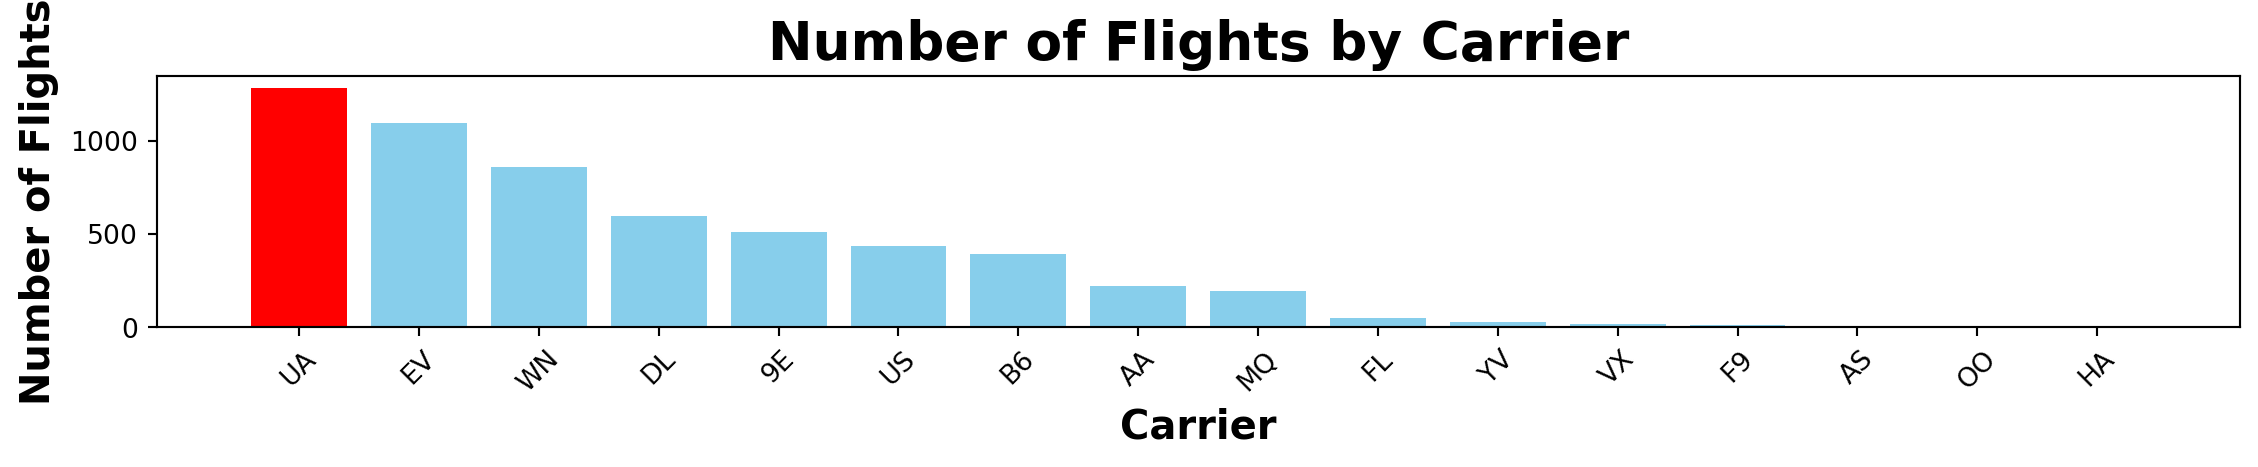
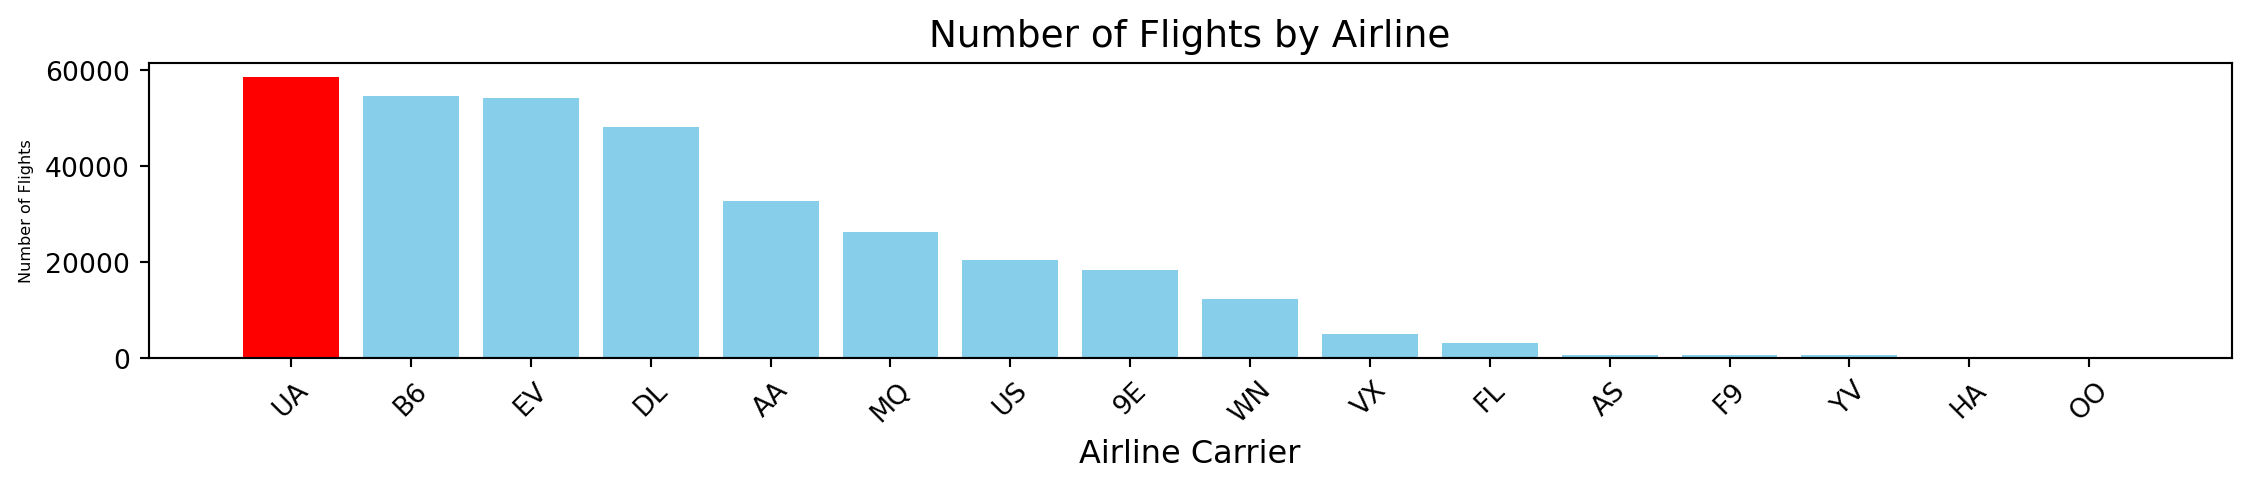
FINAL

Changed region(s): [[0.0, 0.0, 0.9956, 0.8694], [0.4667, 0.8694, 0.5911, 0.9593]]

diff --git a/flights_planes.html b/flights_planes.html
@@ -10,7 +10,7 @@
   <meta name="generator" content="quarto-1.6.42">
 
   <meta name="author" content="Team F5 : 정의주, 한지수, 신태선">
-  <title>‘nycflights13’ 보고서</title>
+  <title>UA 항공의 제조사별 출발 지연 분석</title>
   <meta name="apple-mobile-web-app-capable" content="yes">
   <meta name="apple-mobile-web-app-status-bar-style" content="black-translucent">
   <meta name="viewport" content="width=device-width, initial-scale=1.0, maximum-scale=1.0, user-scalable=no, minimal-ui">
@@ -196,8 +196,8 @@
     <div class="slides">
 
 <section id="title-slide" data-background-image="images/ua_dep.png" data-background-opacity="0.5" data-background-size="cover" data-font-size="48px" class="quarto-title-block center">
-  <h1 class="title">‘nycflights13’ 보고서</h1>
-  <p class="subtitle">UA 항공의 제조사별 출발 지연 분석</p>
+  <h1 class="title">UA 항공의 제조사별 출발 지연 분석</h1>
+  <p class="subtitle">‘nycflights13’ 보고서</p>
 
 <div class="quarto-title-authors">
 <div class="quarto-title-author">
@@ -266,7 +266,7 @@ Team F5 : 정의주, 한지수, 신태선
 <section id="데이터-정보" class="slide level2">
 <h2>2.1 데이터 정보</h2>
 <div class="column" style="margin-top:80px;">
-<div id="9336228c" class="cell" data-execution_count="2">
+<div id="2a2a5ead" class="cell" data-execution_count="2">
 <div class="sourceCode cell-code" id="cb1"><pre class="sourceCode numberSource python number-lines code-with-copy"><code class="sourceCode python"><span id="cb1-1"><a href=""></a>flights.info()</span></code><button title="Copy to Clipboard" class="code-copy-button"><i class="bi"></i></button></pre></div>
 <div class="cell-output cell-output-stdout">
 <pre><code>&lt;class 'pandas.core.frame.DataFrame'&gt;
@@ -309,7 +309,7 @@ memory usage: 48.8+ MB</code></pre>
 <section id="데이터-정보-1" class="slide level2">
 <h2>2.1 데이터 정보</h2>
 <div class="column" style="margin-top:80px;">
-<div id="c39c142a" class="cell" data-execution_count="3">
+<div id="e00fe4e5" class="cell" data-execution_count="3">
 <div class="sourceCode cell-code" id="cb3"><pre class="sourceCode numberSource python number-lines code-with-copy"><code class="sourceCode python"><span id="cb3-1"><a href=""></a>planes.info()</span></code><button title="Copy to Clipboard" class="code-copy-button"><i class="bi"></i></button></pre></div>
 <div class="cell-output cell-output-stdout">
 <pre><code>&lt;class 'pandas.core.frame.DataFrame'&gt;
@@ -342,20 +342,20 @@ memory usage: 233.7+ KB</code></pre>
 <ul>
 <li>두 데이터를 tailnum 기준으로 병합</li>
 </ul>
-<div id="7cf6ba7d" class="cell" data-execution_count="4">
+<div id="e176dd75" class="cell" data-execution_count="4">
 <div class="sourceCode cell-code" id="cb5"><pre class="sourceCode numberSource python number-lines code-with-copy"><code class="sourceCode python"><span id="cb5-1"><a href=""></a><span class="co"># tailnum을 key로 merge 하기 </span></span>
 <span id="cb5-2"><a href=""></a>df <span class="op">=</span> pd.merge(flights, planes, on <span class="op">=</span> <span class="st">'tailnum'</span>, how<span class="op">=</span><span class="st">'left'</span>)</span></code><button title="Copy to Clipboard" class="code-copy-button"><i class="bi"></i></button></pre></div>
 </div>
-<div id="003022bd" class="cell" data-execution_count="5">
+<div id="fd10c569" class="cell" data-execution_count="5">
 <div class="cell-output cell-output-stdout">
 <pre><code>병합된 데이터 : 336776</code></pre>
 </div>
 </div>
 <ul>
-<li>병합된 데이터의 주요 데이터</li>
+<li>병합된 데이터 셋의 주요 데이터</li>
 </ul>
-<div id="714ee9bf" class="cell" data-execution_count="6">
-<div class="cell-output cell-output-display" data-execution_count="84">
+<div id="f19ff847" class="cell" data-execution_count="6">
+<div class="cell-output cell-output-display" data-execution_count="32">
 <div>
 <style scoped="">
     .dataframe tbody tr th:only-of-type {
@@ -447,26 +447,37 @@ memory usage: 233.7+ KB</code></pre>
 <ul>
 <li><strong>UA</strong> 항공사 데이터만 가져오기</li>
 </ul>
-<div id="e77a32b2" class="cell" data-execution_count="8">
+<div id="c4e2c5ca" class="cell" data-execution_count="8">
 <details class="code-fold">
 <summary>Code</summary>
-<div class="sourceCode cell-code" id="cb7"><pre class="sourceCode numberSource python number-lines code-with-copy"><code class="sourceCode python"><span id="cb7-1"><a href=""></a><span class="co"># 색상 조건 설정 (UA는 빨간색, 나머지는 하늘색)</span></span>
-<span id="cb7-2"><a href=""></a>g_colors <span class="op">=</span> [<span class="st">'red'</span> <span class="cf">if</span> carrier <span class="op">==</span> <span class="st">'UA'</span> <span class="cf">else</span> <span class="st">'skyblue'</span> <span class="cf">for</span> carrier <span class="kw">in</span> flight_sorted[<span class="st">'carrier'</span>]]</span>
-<span id="cb7-3"><a href=""></a></span>
-<span id="cb7-4"><a href=""></a><span class="co"># 시각화</span></span>
-<span id="cb7-5"><a href=""></a>plt.figure(figsize<span class="op">=</span>(<span class="dv">14</span>, <span class="fl">1.7</span>))</span>
-<span id="cb7-6"><a href=""></a>plt.bar(flight_sorted[<span class="st">'carrier'</span>], flight_sorted[<span class="st">'flight'</span>], color<span class="op">=</span>g_colors)</span>
+<div class="sourceCode cell-code" id="cb7"><pre class="sourceCode numberSource python number-lines code-with-copy"><code class="sourceCode python"><span id="cb7-1"><a href=""></a><span class="co"># 코드 설명 1</span></span>
+<span id="cb7-2"><a href=""></a><span class="co"># 색상 조정 </span></span>
+<span id="cb7-3"><a href=""></a>g_colors <span class="op">=</span> [<span class="st">'red'</span> <span class="cf">if</span> carrier <span class="op">==</span> <span class="st">'UA'</span> <span class="cf">else</span> <span class="st">'skyblue'</span> <span class="cf">for</span> carrier <span class="kw">in</span> flight_sorted[<span class="st">'carrier'</span>]]</span>
+<span id="cb7-4"><a href=""></a></span>
+<span id="cb7-5"><a href=""></a><span class="co"># 항공사별 운항 횟수 계산</span></span>
+<span id="cb7-6"><a href=""></a>carrier_counts <span class="op">=</span> flights[<span class="st">'carrier'</span>].value_counts()</span>
 <span id="cb7-7"><a href=""></a></span>
-<span id="cb7-8"><a href=""></a>plt.xlabel(<span class="st">"Carrier"</span>, fontsize<span class="op">=</span><span class="dv">15</span>, fontweight<span class="op">=</span><span class="st">'bold'</span>)</span>
-<span id="cb7-9"><a href=""></a>plt.ylabel(<span class="st">"Number of Flights"</span>, fontsize<span class="op">=</span><span class="dv">15</span>, fontweight<span class="op">=</span><span class="st">'bold'</span>)</span>
-<span id="cb7-10"><a href=""></a>plt.title(<span class="st">"Number of Flights by Carrier"</span>, fontsize<span class="op">=</span><span class="dv">20</span>, fontweight<span class="op">=</span><span class="st">'bold'</span>)</span>
-<span id="cb7-11"><a href=""></a>plt.xticks(rotation<span class="op">=</span><span class="dv">45</span>)</span>
-<span id="cb7-12"><a href=""></a>plt.show()</span></code><button title="Copy to Clipboard" class="code-copy-button"><i class="bi"></i></button></pre></div>
+<span id="cb7-8"><a href=""></a><span class="co"># 그래프 크기 설정</span></span>
+<span id="cb7-9"><a href=""></a>plt.figure(figsize<span class="op">=</span>(<span class="dv">14</span>, <span class="dv">2</span>))</span>
+<span id="cb7-10"><a href=""></a></span>
+<span id="cb7-11"><a href=""></a><span class="co"># 막대 그래프 그리기 (개별 색상 적용)</span></span>
+<span id="cb7-12"><a href=""></a>plt.bar(carrier_counts.index, carrier_counts.values, color<span class="op">=</span>g_colors)</span>
+<span id="cb7-13"><a href=""></a></span>
+<span id="cb7-14"><a href=""></a><span class="co"># 제목 및 축 라벨 설정</span></span>
+<span id="cb7-15"><a href=""></a>plt.title(<span class="st">"Number of Flights by Airline"</span>, fontsize<span class="op">=</span><span class="dv">14</span>)</span>
+<span id="cb7-16"><a href=""></a>plt.xlabel(<span class="st">"Airline Carrier"</span>, fontsize<span class="op">=</span><span class="dv">12</span>)</span>
+<span id="cb7-17"><a href=""></a>plt.ylabel(<span class="st">"Number of Flights"</span>, fontsize<span class="op">=</span><span class="dv">6</span>)</span>
+<span id="cb7-18"><a href=""></a></span>
+<span id="cb7-19"><a href=""></a><span class="co"># X축 레이블 회전 (가독성 개선)</span></span>
+<span id="cb7-20"><a href=""></a>plt.xticks(rotation<span class="op">=</span><span class="dv">45</span>)</span>
+<span id="cb7-21"><a href=""></a></span>
+<span id="cb7-22"><a href=""></a><span class="co"># 그래프 출력</span></span>
+<span id="cb7-23"><a href=""></a>plt.show()</span></code><button title="Copy to Clipboard" class="code-copy-button"><i class="bi"></i></button></pre></div>
 </details>
 <div class="cell-output cell-output-display">
 <div class="quarto-figure quarto-figure-center">
 <figure>
-<p><img data-src="flights_planes_files/figure-revealjs/cell-9-output-1.png" class="quarto-figure quarto-figure-center" width="1129" height="234"></p>
+<p><img data-src="flights_planes_files/figure-revealjs/cell-9-output-1.png" class="quarto-figure quarto-figure-center" width="1125" height="245"></p>
 </figure>
 </div>
 </div>
@@ -474,7 +485,7 @@ memory usage: 233.7+ KB</code></pre>
 <ul>
 <li>UA 항공사 데이터 개수</li>
 </ul>
-<div id="212fc102" class="cell" data-execution_count="9">
+<div id="ddcc7eb8" class="cell" data-execution_count="9">
 <div class="sourceCode cell-code" id="cb8"><pre class="sourceCode numberSource python number-lines code-with-copy"><code class="sourceCode python"><span id="cb8-1"><a href=""></a>df  <span class="op">=</span> df[df[<span class="st">'carrier'</span>]<span class="op">==</span><span class="st">'UA'</span>]</span>
 <span id="cb8-2"><a href=""></a>df_len <span class="op">=</span> <span class="bu">len</span>(df)</span>
 <span id="cb8-3"><a href=""></a><span class="bu">print</span>(<span class="st">"UA 항공사의 운행량 :"</span>, df_len)</span></code><button title="Copy to Clipboard" class="code-copy-button"><i class="bi"></i></button></pre></div>
@@ -488,15 +499,15 @@ memory usage: 233.7+ KB</code></pre>
 <ul>
 <li>날짜 열 만들기</li>
 </ul>
-<div id="270f7a8a" class="cell" data-execution_count="10">
+<div id="b0d665f6" class="cell" data-execution_count="10">
 <div class="sourceCode cell-code" id="cb10"><pre class="sourceCode numberSource python number-lines code-with-copy"><code class="sourceCode python"><span id="cb10-1"><a href=""></a>df[<span class="st">'dep_date_time'</span>] <span class="op">=</span> pd.to_datetime(df[<span class="st">'year_x'</span>].astype(<span class="bu">str</span>) </span>
 <span id="cb10-2"><a href=""></a>                                  <span class="op">+</span> <span class="st">'-'</span> <span class="op">+</span> df[<span class="st">'month'</span>].astype(<span class="bu">str</span>) </span>
 <span id="cb10-3"><a href=""></a>                                  <span class="op">+</span> <span class="st">'-'</span> <span class="op">+</span> df[<span class="st">'day'</span>].astype(<span class="bu">str</span>) </span>
 <span id="cb10-4"><a href=""></a>                                  <span class="op">+</span> <span class="st">' '</span> <span class="op">+</span> df[<span class="st">'hour'</span>].astype(<span class="bu">str</span>) </span>
 <span id="cb10-5"><a href=""></a>                                  <span class="op">+</span> <span class="st">':'</span> <span class="op">+</span> df[<span class="st">'minute'</span>].astype(<span class="bu">str</span>))</span></code><button title="Copy to Clipboard" class="code-copy-button"><i class="bi"></i></button></pre></div>
 </div>
-<div id="2e759cb1" class="cell" data-execution_count="11">
-<div class="cell-output cell-output-display" data-execution_count="89">
+<div id="ace823cf" class="cell" data-execution_count="11">
+<div class="cell-output cell-output-display" data-execution_count="37">
 <div>
 <style scoped="">
     .dataframe tbody tr th:only-of-type {
@@ -561,10 +572,10 @@ memory usage: 233.7+ KB</code></pre>
 <ul>
 <li>2013년 1월~6월(상반기) 데이터를 필터링</li>
 </ul>
-<div id="d4cab7cc" class="cell" data-execution_count="12">
+<div id="9ef31655" class="cell" data-execution_count="12">
 <div class="sourceCode cell-code" id="cb11"><pre class="sourceCode numberSource python number-lines code-with-copy"><code class="sourceCode python"><span id="cb11-1"><a href=""></a>df_fh <span class="op">=</span> df[(df[<span class="st">'dep_date_time'</span>] <span class="op">&gt;=</span> <span class="st">'2013-01-01'</span>) <span class="op">&amp;</span> (df[<span class="st">'dep_date_time'</span>] <span class="op">&lt;=</span> <span class="st">'2013-06-30'</span>)]</span></code><button title="Copy to Clipboard" class="code-copy-button"><i class="bi"></i></button></pre></div>
 </div>
-<div id="5bc9e7f0" class="cell" data-execution_count="13">
+<div id="d8774518" class="cell" data-execution_count="13">
 <div class="cell-output cell-output-stdout">
 <pre><code>전처리된 상반기 데이터 필터링: 58665=&gt;28782</code></pre>
 </div>
@@ -575,45 +586,46 @@ memory usage: 233.7+ KB</code></pre>
 <ul>
 <li>빠른 이륙은 지연이 아니므로 0으로 변경</li>
 </ul>
-<div id="e97bc690" class="cell" data-execution_count="14">
+<div id="14496146" class="cell" data-execution_count="14">
 <div class="sourceCode cell-code" id="cb13"><pre class="sourceCode numberSource python number-lines code-with-copy"><code class="sourceCode python"><span id="cb13-1"><a href=""></a><span class="co">#0보다 작으면 0이라고 하기 </span></span>
 <span id="cb13-2"><a href=""></a>df_fh[<span class="st">'dep_delay'</span>] <span class="op">=</span> df_fh[<span class="st">'dep_delay'</span>].<span class="bu">apply</span>(<span class="kw">lambda</span> x: <span class="dv">0</span> <span class="cf">if</span> x <span class="op">&lt;</span> <span class="dv">0</span> <span class="cf">else</span> x)</span></code><button title="Copy to Clipboard" class="code-copy-button"><i class="bi"></i></button></pre></div>
 </div>
-<div id="ff1fbb97" class="cell" data-execution_count="15">
+<div id="2e79ab58" class="cell" data-execution_count="15">
 <div class="cell-output cell-output-stdout">
 <pre><code>빠른 이륙 처리 후 데이터의 개수: 28782 =&gt; 28782</code></pre>
 </div>
 </div>
+</section>
+<section id="이상치-제거-1" class="slide level2">
+<h2>2.4 이상치 제거</h2>
 <ul>
 <li>이상치 제거를 위한 IQR(Interquartile Range) 계산</li>
 </ul>
-<div id="572f4f79" class="cell" data-execution_count="16">
-<details class="code-fold">
-<summary>Code</summary>
-<div class="sourceCode cell-code" id="cb15"><pre class="sourceCode numberSource python number-lines code-with-copy"><code class="sourceCode python"><span id="cb15-1"><a href=""></a><span class="co"># 이상치 제거를 위한 IQR(Interquartile Range) 계산 (제조사별 적용)</span></span>
-<span id="cb15-2"><a href=""></a><span class="kw">def</span> remove_outliers_by_manufacturer(df, column, manufacturer_column):</span>
-<span id="cb15-3"><a href=""></a>    filtered_df <span class="op">=</span> pd.DataFrame()  <span class="co"># 이상치 제거된 데이터를 저장할 데이터프레임</span></span>
-<span id="cb15-4"><a href=""></a>    </span>
-<span id="cb15-5"><a href=""></a>    <span class="cf">for</span> manufacturer <span class="kw">in</span> df[manufacturer_column].unique():</span>
-<span id="cb15-6"><a href=""></a>        subset <span class="op">=</span> df[df[manufacturer_column] <span class="op">==</span> manufacturer]  <span class="co"># 특정 제조사 데이터 필터링</span></span>
-<span id="cb15-7"><a href=""></a>        </span>
-<span id="cb15-8"><a href=""></a>        <span class="co"># IQR 계산</span></span>
-<span id="cb15-9"><a href=""></a>        Q1 <span class="op">=</span> subset[column].quantile(<span class="fl">0.25</span>)</span>
-<span id="cb15-10"><a href=""></a>        Q3 <span class="op">=</span> subset[column].quantile(<span class="fl">0.75</span>)</span>
-<span id="cb15-11"><a href=""></a>        IQR <span class="op">=</span> Q3 <span class="op">-</span> Q1</span>
-<span id="cb15-12"><a href=""></a>        </span>
-<span id="cb15-13"><a href=""></a>        <span class="co"># 이상치 기준</span></span>
-<span id="cb15-14"><a href=""></a>        lower_bound <span class="op">=</span> Q1 <span class="op">-</span> <span class="fl">1.5</span> <span class="op">*</span> IQR</span>
-<span id="cb15-15"><a href=""></a>        upper_bound <span class="op">=</span> Q3 <span class="op">+</span> <span class="fl">1.5</span> <span class="op">*</span> IQR</span>
-<span id="cb15-16"><a href=""></a></span>
-<span id="cb15-17"><a href=""></a>        <span class="co"># 이상치 제거 후 데이터프레임에 추가</span></span>
-<span id="cb15-18"><a href=""></a>        cleaned_subset <span class="op">=</span> subset[(subset[column] <span class="op">&gt;=</span> lower_bound) <span class="op">&amp;</span> (subset[column] <span class="op">&lt;=</span> upper_bound)]</span>
-<span id="cb15-19"><a href=""></a>        filtered_df <span class="op">=</span> pd.concat([filtered_df, cleaned_subset], ignore_index<span class="op">=</span><span class="va">True</span>)</span>
-<span id="cb15-20"><a href=""></a>    </span>
-<span id="cb15-21"><a href=""></a>    <span class="cf">return</span> filtered_df</span></code><button title="Copy to Clipboard" class="code-copy-button"><i class="bi"></i></button></pre></div>
-</details>
+<div id="852709e5" class="cell" data-execution_count="16">
+<div class="sourceCode cell-code" id="cb15"><pre class="sourceCode numberSource python number-lines code-with-copy"><code class="sourceCode python"><span id="cb15-1"><a href=""></a><span class="co"># 이상치 제거를 위한 IQR(Interquartile Range) 계산함수 </span></span>
+<span id="cb15-2"><a href=""></a><span class="co"># 코드 설명 </span></span>
+<span id="cb15-3"><a href=""></a><span class="kw">def</span> remove_outliers_by_manufacturer(df, column, manufacturer_column):</span>
+<span id="cb15-4"><a href=""></a>    filtered_df <span class="op">=</span> pd.DataFrame()  <span class="co"># 이상치 제거된 데이터를 저장할 데이터프레임</span></span>
+<span id="cb15-5"><a href=""></a>    </span>
+<span id="cb15-6"><a href=""></a>    <span class="cf">for</span> manufacturer <span class="kw">in</span> df[manufacturer_column].unique():</span>
+<span id="cb15-7"><a href=""></a>        subset <span class="op">=</span> df[df[manufacturer_column] <span class="op">==</span> manufacturer]  <span class="co"># 특정 제조사 데이터 필터링</span></span>
+<span id="cb15-8"><a href=""></a>        </span>
+<span id="cb15-9"><a href=""></a>        <span class="co"># IQR 계산</span></span>
+<span id="cb15-10"><a href=""></a>        Q1 <span class="op">=</span> subset[column].quantile(<span class="fl">0.25</span>)</span>
+<span id="cb15-11"><a href=""></a>        Q3 <span class="op">=</span> subset[column].quantile(<span class="fl">0.75</span>)</span>
+<span id="cb15-12"><a href=""></a>        IQR <span class="op">=</span> Q3 <span class="op">-</span> Q1</span>
+<span id="cb15-13"><a href=""></a>        </span>
+<span id="cb15-14"><a href=""></a>        <span class="co"># 이상치 기준</span></span>
+<span id="cb15-15"><a href=""></a>        lower_bound <span class="op">=</span> Q1 <span class="op">-</span> <span class="fl">1.5</span> <span class="op">*</span> IQR</span>
+<span id="cb15-16"><a href=""></a>        upper_bound <span class="op">=</span> Q3 <span class="op">+</span> <span class="fl">1.5</span> <span class="op">*</span> IQR</span>
+<span id="cb15-17"><a href=""></a></span>
+<span id="cb15-18"><a href=""></a>        <span class="co"># 이상치 제거 후 데이터프레임에 추가</span></span>
+<span id="cb15-19"><a href=""></a>        cleaned_subset <span class="op">=</span> subset[(subset[column] <span class="op">&gt;=</span> lower_bound) <span class="op">&amp;</span> (subset[column] <span class="op">&lt;=</span> upper_bound)]</span>
+<span id="cb15-20"><a href=""></a>        filtered_df <span class="op">=</span> pd.concat([filtered_df, cleaned_subset], ignore_index<span class="op">=</span><span class="va">True</span>)</span>
+<span id="cb15-21"><a href=""></a>    </span>
+<span id="cb15-22"><a href=""></a>    <span class="cf">return</span> filtered_df</span></code><button title="Copy to Clipboard" class="code-copy-button"><i class="bi"></i></button></pre></div>
 </div>
-<div id="5d90cd77" class="cell" data-execution_count="17">
+<div id="a074fc7b" class="cell" data-execution_count="17">
 <div class="cell-output cell-output-stdout">
 <pre><code>이상치 제거 후 데이터의 개수: 28782 =&gt; 23683</code></pre>
 </div>
@@ -640,7 +652,7 @@ memory usage: 233.7+ KB</code></pre>
 </div>
 </div>
 <div class="cell">
-<div id="5fb51a2e" class="cell" data-execution_count="19">
+<div id="f6c24759" class="cell" data-execution_count="19">
 <details class="code-fold">
 <summary>Code</summary>
 <div class="sourceCode cell-code" id="cb17"><pre class="sourceCode numberSource python number-lines code-with-copy"><code class="sourceCode python"><span id="cb17-1"><a href=""></a><span class="co"># 제조사별 평균 및 중앙값 계산 및 정렬</span></span>
@@ -653,7 +665,7 @@ memory usage: 233.7+ KB</code></pre>
 <span id="cb17-8"><a href=""></a>manufacturer_stats <span class="op">=</span> manufacturer_stats.reindex(manufacturer_order)</span></code><button title="Copy to Clipboard" class="code-copy-button"><i class="bi"></i></button></pre></div>
 </details>
 </div>
-<div id="701c096c" class="cell" data-execution_count="20">
+<div id="ad0fe778" class="cell" data-execution_count="20">
 <div class="cell-output cell-output-display">
 <div class="quarto-figure quarto-figure-center">
 <figure>
@@ -688,15 +700,16 @@ memory usage: 233.7+ KB</code></pre>
 </div>
 </div>
 </div>
-<div id="4f36ffd8" class="cell" data-execution_count="23">
+<div id="c5a90318" class="cell" data-execution_count="23">
 <details class="code-fold">
 <summary>Code</summary>
 <div class="sourceCode cell-code" id="cb18"><pre class="sourceCode numberSource python number-lines code-with-copy"><code class="sourceCode python"><span id="cb18-1"><a href=""></a><span class="co"># 다크그레이 HEX 코드 설정</span></span>
 <span id="cb18-2"><a href=""></a>dark_gray <span class="op">=</span> <span class="st">'#A9A9A9'</span></span>
 <span id="cb18-3"><a href=""></a></span>
-<span id="cb18-4"><a href=""></a>plt.figure(figsize<span class="op">=</span>(<span class="dv">10</span>, <span class="fl">5.2</span>))</span>
-<span id="cb18-5"><a href=""></a>plt.pie(manufacturer_counts, labels<span class="op">=</span>labels, autopct<span class="op">=</span><span class="st">'</span><span class="sc">%1.1f%%</span><span class="st">'</span>, startangle<span class="op">=</span><span class="dv">140</span>, colors<span class="op">=</span>[<span class="st">'red'</span>,<span class="st">'gray'</span>, dark_gray])</span>
-<span id="cb18-6"><a href=""></a>plt.show()</span></code><button title="Copy to Clipboard" class="code-copy-button"><i class="bi"></i></button></pre></div>
+<span id="cb18-4"><a href=""></a><span class="co"># 파이 그래프 </span></span>
+<span id="cb18-5"><a href=""></a>plt.figure(figsize<span class="op">=</span>(<span class="dv">10</span>, <span class="fl">5.2</span>))</span>
+<span id="cb18-6"><a href=""></a>plt.pie(manufacturer_counts, labels<span class="op">=</span>labels, autopct<span class="op">=</span><span class="st">'</span><span class="sc">%1.1f%%</span><span class="st">'</span>, startangle<span class="op">=</span><span class="dv">140</span>, colors<span class="op">=</span>[<span class="st">'red'</span>,<span class="st">'gray'</span>, dark_gray])</span>
+<span id="cb18-7"><a href=""></a>plt.show()</span></code><button title="Copy to Clipboard" class="code-copy-button"><i class="bi"></i></button></pre></div>
 </details>
 <div class="cell-output cell-output-display">
 <div class="quarto-figure quarto-figure-center">
@@ -724,46 +737,47 @@ memory usage: 233.7+ KB</code></pre>
 </div>
 </div>
 </div>
-<div id="816e7639" class="cell" data-execution_count="25">
+<div id="273509e2" class="cell" data-execution_count="25">
 <details class="code-fold">
 <summary>Code</summary>
-<div class="sourceCode cell-code" id="cb19"><pre class="sourceCode numberSource python number-lines code-with-copy"><code class="sourceCode python"><span id="cb19-1"><a href=""></a>yellow <span class="op">=</span> <span class="st">'#ffcc00'</span></span>
-<span id="cb19-2"><a href=""></a></span>
-<span id="cb19-3"><a href=""></a><span class="co"># 시각화 서브 플롯 사용 </span></span>
-<span id="cb19-4"><a href=""></a>fig, ax1 <span class="op">=</span> plt.subplots(figsize<span class="op">=</span>(<span class="dv">14</span>, <span class="dv">4</span>))</span>
-<span id="cb19-5"><a href=""></a>total_flights_df <span class="op">=</span> df_fh[<span class="st">'manufacturer'</span>].value_counts()</span>
-<span id="cb19-6"><a href=""></a><span class="co"># 바 차트: 지연 횟수</span></span>
-<span id="cb19-7"><a href=""></a>sns.barplot(x<span class="op">=</span>delay_df.index, y<span class="op">=</span>delay_df[<span class="st">"Delay Count"</span>], palette<span class="op">=</span>[<span class="st">'red'</span>, <span class="st">'gray'</span>, dark_gray], ax<span class="op">=</span>ax1)</span>
-<span id="cb19-8"><a href=""></a>ax1.set_ylabel(<span class="st">"Number of Delays"</span>, fontsize<span class="op">=</span><span class="dv">12</span>)</span>
-<span id="cb19-9"><a href=""></a>ax1.set_xlabel(<span class="st">"Manufacturer"</span>, fontsize<span class="op">=</span><span class="dv">12</span>)</span>
-<span id="cb19-10"><a href=""></a>ax1.set_title(<span class="st">"Number of Delays by Manufacturer"</span>, fontsize<span class="op">=</span><span class="dv">14</span>)</span>
-<span id="cb19-11"><a href=""></a>ax1.tick_params(axis<span class="op">=</span><span class="st">"x"</span>)</span>
-<span id="cb19-12"><a href=""></a></span>
-<span id="cb19-13"><a href=""></a><span class="co"># 라인 차트: 지연 비율 (%)</span></span>
-<span id="cb19-14"><a href=""></a>ax2 <span class="op">=</span> ax1.twinx()</span>
-<span id="cb19-15"><a href=""></a>sns.lineplot(x<span class="op">=</span>delay_df.index, y<span class="op">=</span>delay_df[<span class="st">"Delay Rate (%)"</span>], marker<span class="op">=</span><span class="st">"o"</span>, color<span class="op">=</span>yellow, ax<span class="op">=</span>ax2)</span>
-<span id="cb19-16"><a href=""></a>ax2.set_ylabel(<span class="st">"Delay Rate (%)"</span>, fontsize<span class="op">=</span><span class="dv">12</span>)</span>
-<span id="cb19-17"><a href=""></a>ax2.grid(<span class="va">False</span>)</span>
-<span id="cb19-18"><a href=""></a></span>
-<span id="cb19-19"><a href=""></a><span class="co"># 🔥 색상 설정: BOEING - 빨간색, AIRBUS INDUSTRIE - 회색, AIRBUS - 짙은 회색 🔥</span></span>
-<span id="cb19-20"><a href=""></a>color_map <span class="op">=</span> {</span>
-<span id="cb19-21"><a href=""></a>    <span class="st">"BOEING"</span>: <span class="st">"red"</span>,</span>
-<span id="cb19-22"><a href=""></a>    <span class="st">"AIRBUS INDUSTRIE"</span>: <span class="st">"gray"</span>,</span>
-<span id="cb19-23"><a href=""></a>    <span class="st">"AIRBUS"</span>: dark_gray  <span class="co"># 짙은 회색 (Dark Gray)</span></span>
-<span id="cb19-24"><a href=""></a>}</span>
-<span id="cb19-25"><a href=""></a></span>
-<span id="cb19-26"><a href=""></a><span class="co"># 🔥 지연 횟수 / 총 운항 횟수 숫자 직접 표시 🔥</span></span>
-<span id="cb19-27"><a href=""></a><span class="cf">for</span> i, (manufacturer, y) <span class="kw">in</span> <span class="bu">enumerate</span>(<span class="bu">zip</span>(delay_df.index, delay_df[<span class="st">"Delay Count"</span>])):</span>
-<span id="cb19-28"><a href=""></a>    total_flights <span class="op">=</span> total_flights_df[manufacturer]  <span class="co"># 각 제조사의 총 운항 횟수 가져오기</span></span>
-<span id="cb19-29"><a href=""></a>    delay_ratio <span class="op">=</span> (y <span class="op">/</span> total_flights) <span class="op">*</span> <span class="dv">100</span>  <span class="co"># 지연 횟수 / 총 운항 횟수 비율</span></span>
-<span id="cb19-30"><a href=""></a>    </span>
-<span id="cb19-31"><a href=""></a>    <span class="co"># 🔥 제조사별 색상 선택 (기본값은 검정색)</span></span>
-<span id="cb19-32"><a href=""></a>    text_color <span class="op">=</span> color_map.get(manufacturer, <span class="st">"black"</span>)</span>
-<span id="cb19-33"><a href=""></a></span>
-<span id="cb19-34"><a href=""></a>    <span class="co"># 텍스트 출력</span></span>
-<span id="cb19-35"><a href=""></a>    ax1.text(x<span class="op">=</span>i, y<span class="op">=</span>y <span class="op">+</span> <span class="dv">200</span>, s<span class="op">=</span><span class="ss">f"</span><span class="sc">{</span>y<span class="sc">}</span><span class="ss">/</span><span class="sc">{</span>total_flights<span class="sc">}</span><span class="ss"> (</span><span class="sc">{</span>delay_ratio<span class="sc">:.1f}</span><span class="ss">%)"</span>, </span>
-<span id="cb19-36"><a href=""></a>             color<span class="op">=</span>text_color, fontweight<span class="op">=</span><span class="st">'bold'</span>, fontsize<span class="op">=</span><span class="dv">16</span>, ha<span class="op">=</span><span class="st">"center"</span>)</span>
-<span id="cb19-37"><a href=""></a>plt.show()</span></code><button title="Copy to Clipboard" class="code-copy-button"><i class="bi"></i></button></pre></div>
+<div class="sourceCode cell-code" id="cb19"><pre class="sourceCode numberSource python number-lines code-with-copy"><code class="sourceCode python"><span id="cb19-1"><a href=""></a><span class="co"># 색상 사용자 지정 </span></span>
+<span id="cb19-2"><a href=""></a>yellow <span class="op">=</span> <span class="st">'#ffcc00'</span></span>
+<span id="cb19-3"><a href=""></a></span>
+<span id="cb19-4"><a href=""></a><span class="co"># 시각화 서브 플롯 사용 </span></span>
+<span id="cb19-5"><a href=""></a>fig, ax1 <span class="op">=</span> plt.subplots(figsize<span class="op">=</span>(<span class="dv">14</span>, <span class="dv">4</span>))</span>
+<span id="cb19-6"><a href=""></a>total_flights_df <span class="op">=</span> df_fh[<span class="st">'manufacturer'</span>].value_counts()</span>
+<span id="cb19-7"><a href=""></a><span class="co"># 바 차트: 지연 횟수</span></span>
+<span id="cb19-8"><a href=""></a>sns.barplot(x<span class="op">=</span>delay_df.index, y<span class="op">=</span>delay_df[<span class="st">"Delay Count"</span>], palette<span class="op">=</span>[<span class="st">'red'</span>, <span class="st">'gray'</span>, dark_gray], ax<span class="op">=</span>ax1)</span>
+<span id="cb19-9"><a href=""></a>ax1.set_ylabel(<span class="st">"Number of Delays"</span>, fontsize<span class="op">=</span><span class="dv">12</span>)</span>
+<span id="cb19-10"><a href=""></a>ax1.set_xlabel(<span class="st">"Manufacturer"</span>, fontsize<span class="op">=</span><span class="dv">12</span>)</span>
+<span id="cb19-11"><a href=""></a>ax1.set_title(<span class="st">"Number of Delays by Manufacturer"</span>, fontsize<span class="op">=</span><span class="dv">14</span>)</span>
+<span id="cb19-12"><a href=""></a>ax1.tick_params(axis<span class="op">=</span><span class="st">"x"</span>)</span>
+<span id="cb19-13"><a href=""></a></span>
+<span id="cb19-14"><a href=""></a><span class="co"># 라인 차트: 지연 비율 (%)</span></span>
+<span id="cb19-15"><a href=""></a>ax2 <span class="op">=</span> ax1.twinx()</span>
+<span id="cb19-16"><a href=""></a>sns.lineplot(x<span class="op">=</span>delay_df.index, y<span class="op">=</span>delay_df[<span class="st">"Delay Rate (%)"</span>], marker<span class="op">=</span><span class="st">"o"</span>, color<span class="op">=</span>yellow, ax<span class="op">=</span>ax2)</span>
+<span id="cb19-17"><a href=""></a>ax2.set_ylabel(<span class="st">"Delay Rate (%)"</span>, fontsize<span class="op">=</span><span class="dv">12</span>)</span>
+<span id="cb19-18"><a href=""></a>ax2.grid(<span class="va">False</span>)</span>
+<span id="cb19-19"><a href=""></a></span>
+<span id="cb19-20"><a href=""></a><span class="co"># 🔥 색상 설정: BOEING - 빨간색, AIRBUS INDUSTRIE - 회색, AIRBUS - 짙은 회색 🔥</span></span>
+<span id="cb19-21"><a href=""></a>color_map <span class="op">=</span> {</span>
+<span id="cb19-22"><a href=""></a>    <span class="st">"BOEING"</span>: <span class="st">"red"</span>,</span>
+<span id="cb19-23"><a href=""></a>    <span class="st">"AIRBUS INDUSTRIE"</span>: <span class="st">"gray"</span>,</span>
+<span id="cb19-24"><a href=""></a>    <span class="st">"AIRBUS"</span>: dark_gray  <span class="co"># 짙은 회색 (Dark Gray)</span></span>
+<span id="cb19-25"><a href=""></a>}</span>
+<span id="cb19-26"><a href=""></a></span>
+<span id="cb19-27"><a href=""></a><span class="co"># 🔥 지연 횟수 / 총 운항 횟수 숫자 직접 표시 🔥</span></span>
+<span id="cb19-28"><a href=""></a><span class="cf">for</span> i, (manufacturer, y) <span class="kw">in</span> <span class="bu">enumerate</span>(<span class="bu">zip</span>(delay_df.index, delay_df[<span class="st">"Delay Count"</span>])):</span>
+<span id="cb19-29"><a href=""></a>    total_flights <span class="op">=</span> total_flights_df[manufacturer]  <span class="co"># 각 제조사의 총 운항 횟수 가져오기</span></span>
+<span id="cb19-30"><a href=""></a>    delay_ratio <span class="op">=</span> (y <span class="op">/</span> total_flights) <span class="op">*</span> <span class="dv">100</span>  <span class="co"># 지연 횟수 / 총 운항 횟수 비율</span></span>
+<span id="cb19-31"><a href=""></a>    </span>
+<span id="cb19-32"><a href=""></a>    <span class="co"># 🔥 제조사별 색상 선택 (기본값은 검정색)</span></span>
+<span id="cb19-33"><a href=""></a>    text_color <span class="op">=</span> color_map.get(manufacturer, <span class="st">"black"</span>)</span>
+<span id="cb19-34"><a href=""></a></span>
+<span id="cb19-35"><a href=""></a>    <span class="co"># 텍스트 출력</span></span>
+<span id="cb19-36"><a href=""></a>    ax1.text(x<span class="op">=</span>i, y<span class="op">=</span>y <span class="op">+</span> <span class="dv">200</span>, s<span class="op">=</span><span class="ss">f"</span><span class="sc">{</span>y<span class="sc">}</span><span class="ss">/</span><span class="sc">{</span>total_flights<span class="sc">}</span><span class="ss"> (</span><span class="sc">{</span>delay_ratio<span class="sc">:.1f}</span><span class="ss">%)"</span>, </span>
+<span id="cb19-37"><a href=""></a>             color<span class="op">=</span>text_color, fontweight<span class="op">=</span><span class="st">'bold'</span>, fontsize<span class="op">=</span><span class="dv">16</span>, ha<span class="op">=</span><span class="st">"center"</span>)</span>
+<span id="cb19-38"><a href=""></a>plt.show()</span></code><button title="Copy to Clipboard" class="code-copy-button"><i class="bi"></i></button></pre></div>
 </details>
 <div class="cell-output cell-output-display">
 <div class="quarto-figure quarto-figure-center">
@@ -785,7 +799,7 @@ memory usage: 233.7+ KB</code></pre>
 <ul id="tabset-1" class="panel-tabset-tabby"><li><a data-tabby-default="" href="#tabset-1-1">📊 데이터 시각화</a></li><li><a href="#tabset-1-2">🚨 운항 지연 문제 분석</a></li><li><a href="#tabset-1-3">✈ 운항 최적화 방안</a></li></ul>
 <div class="tab-content">
 <div id="tabset-1-1">
-<div id="0a0e945d" class="cell" data-execution_count="26">
+<div id="93951a0c" class="cell" data-execution_count="26">
 <div class="cell-output cell-output-display">
 <div class="quarto-figure quarto-figure-left">
 <figure>
